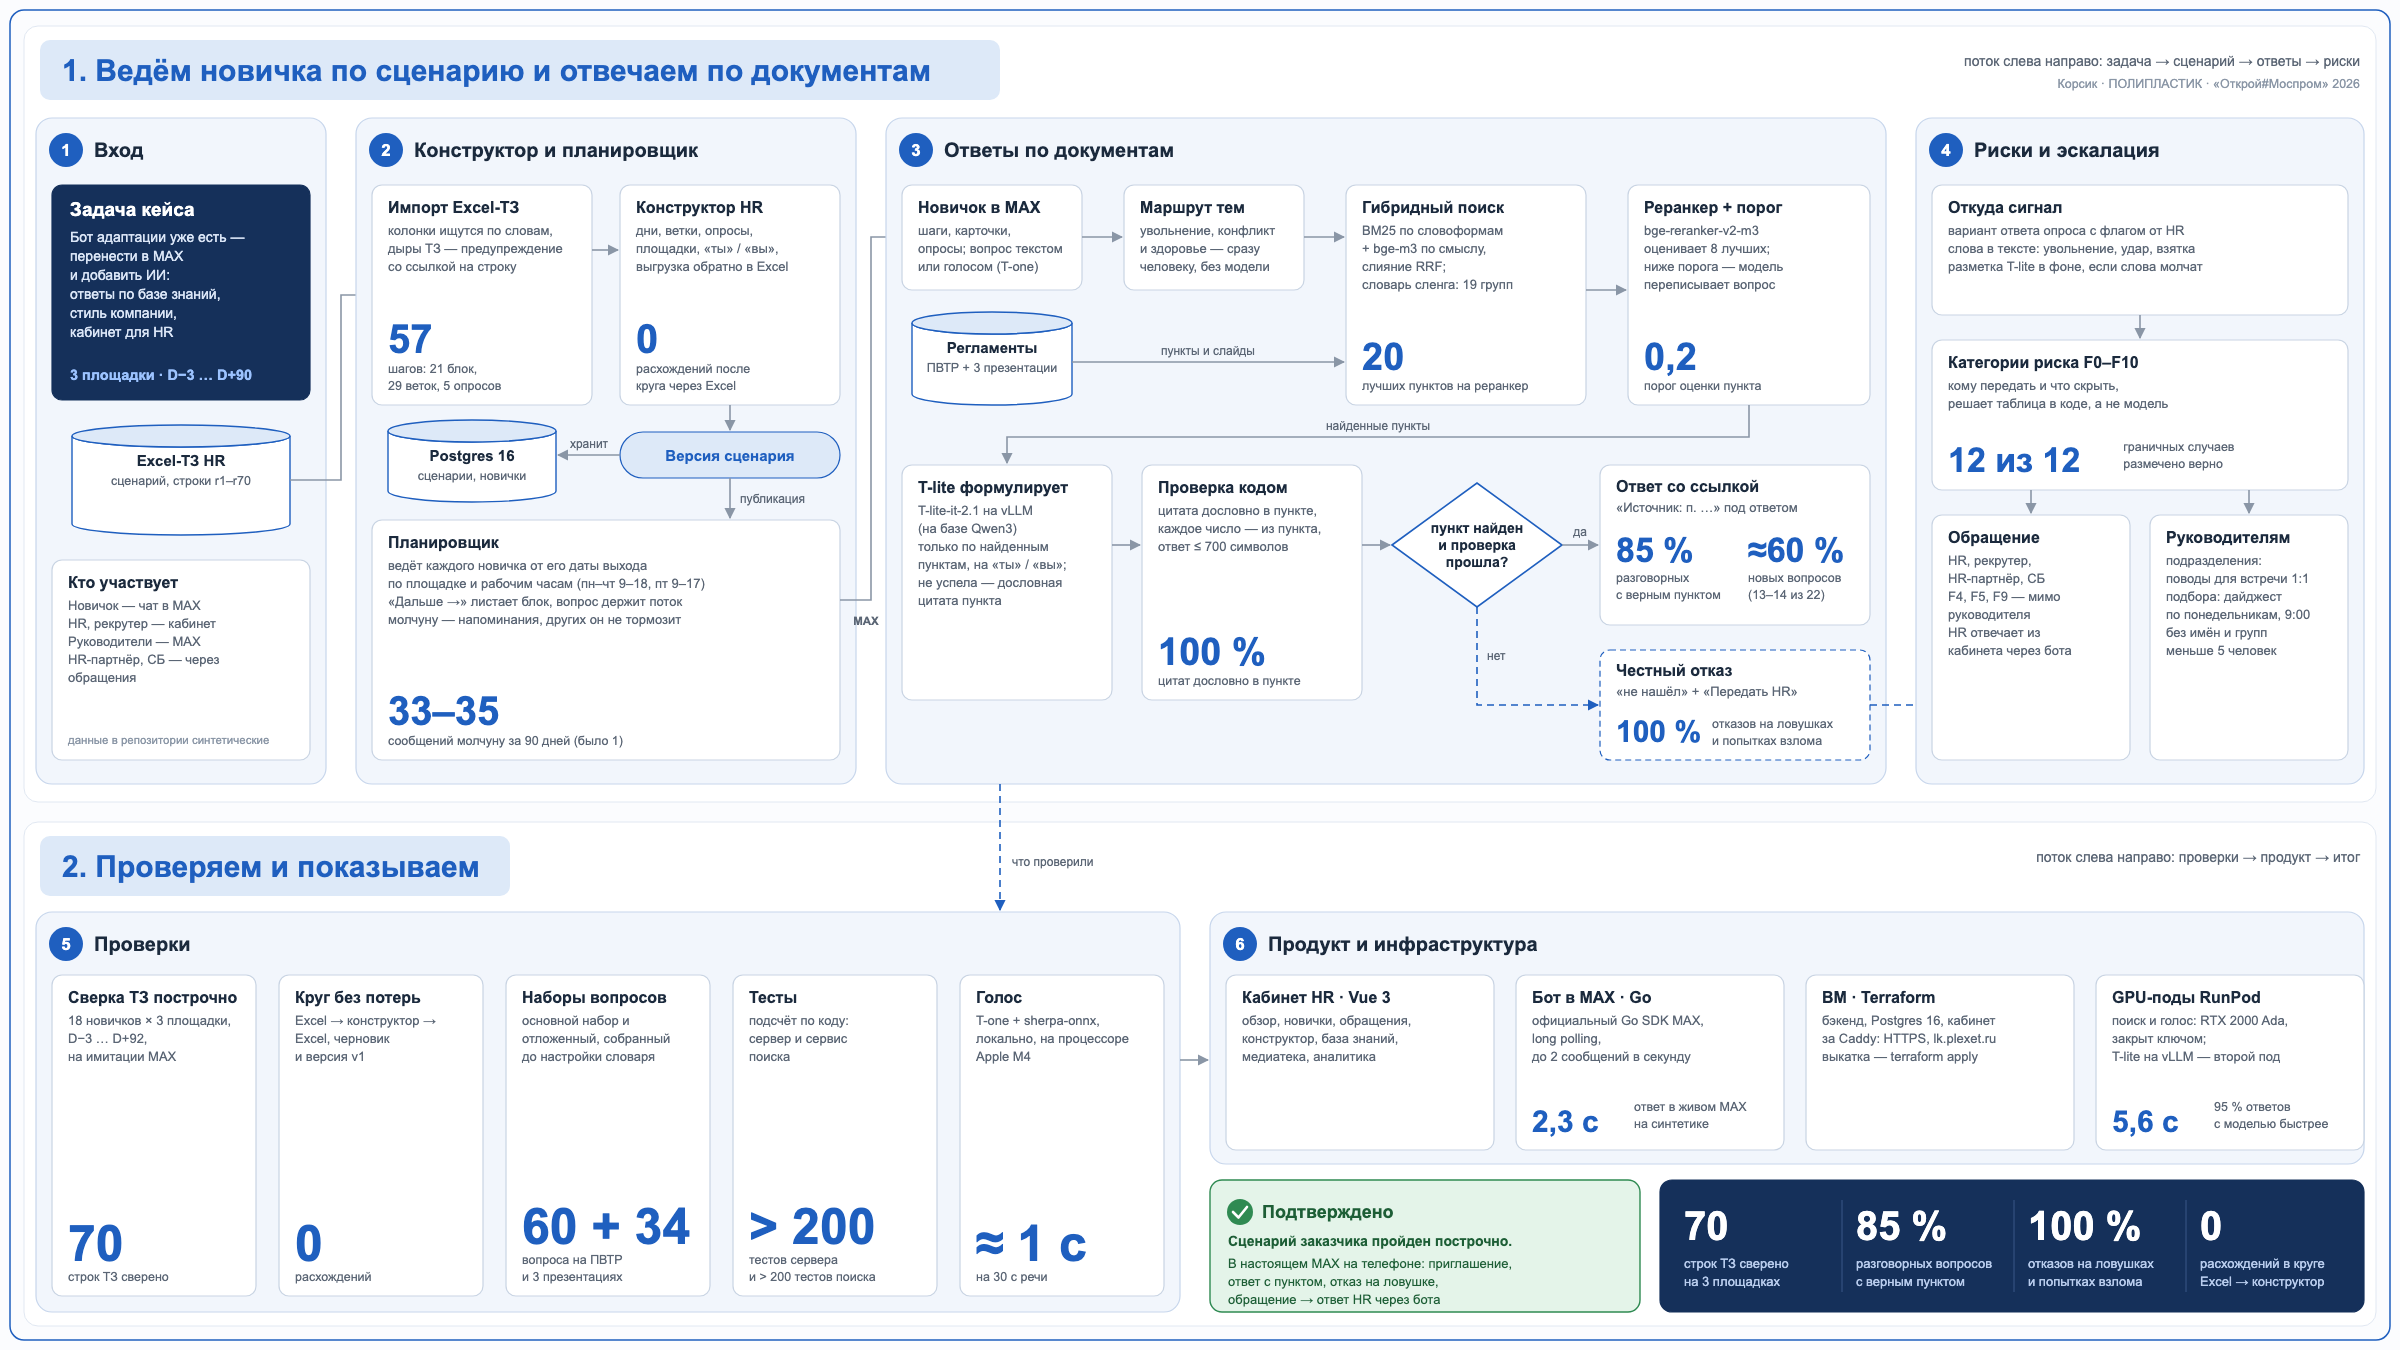
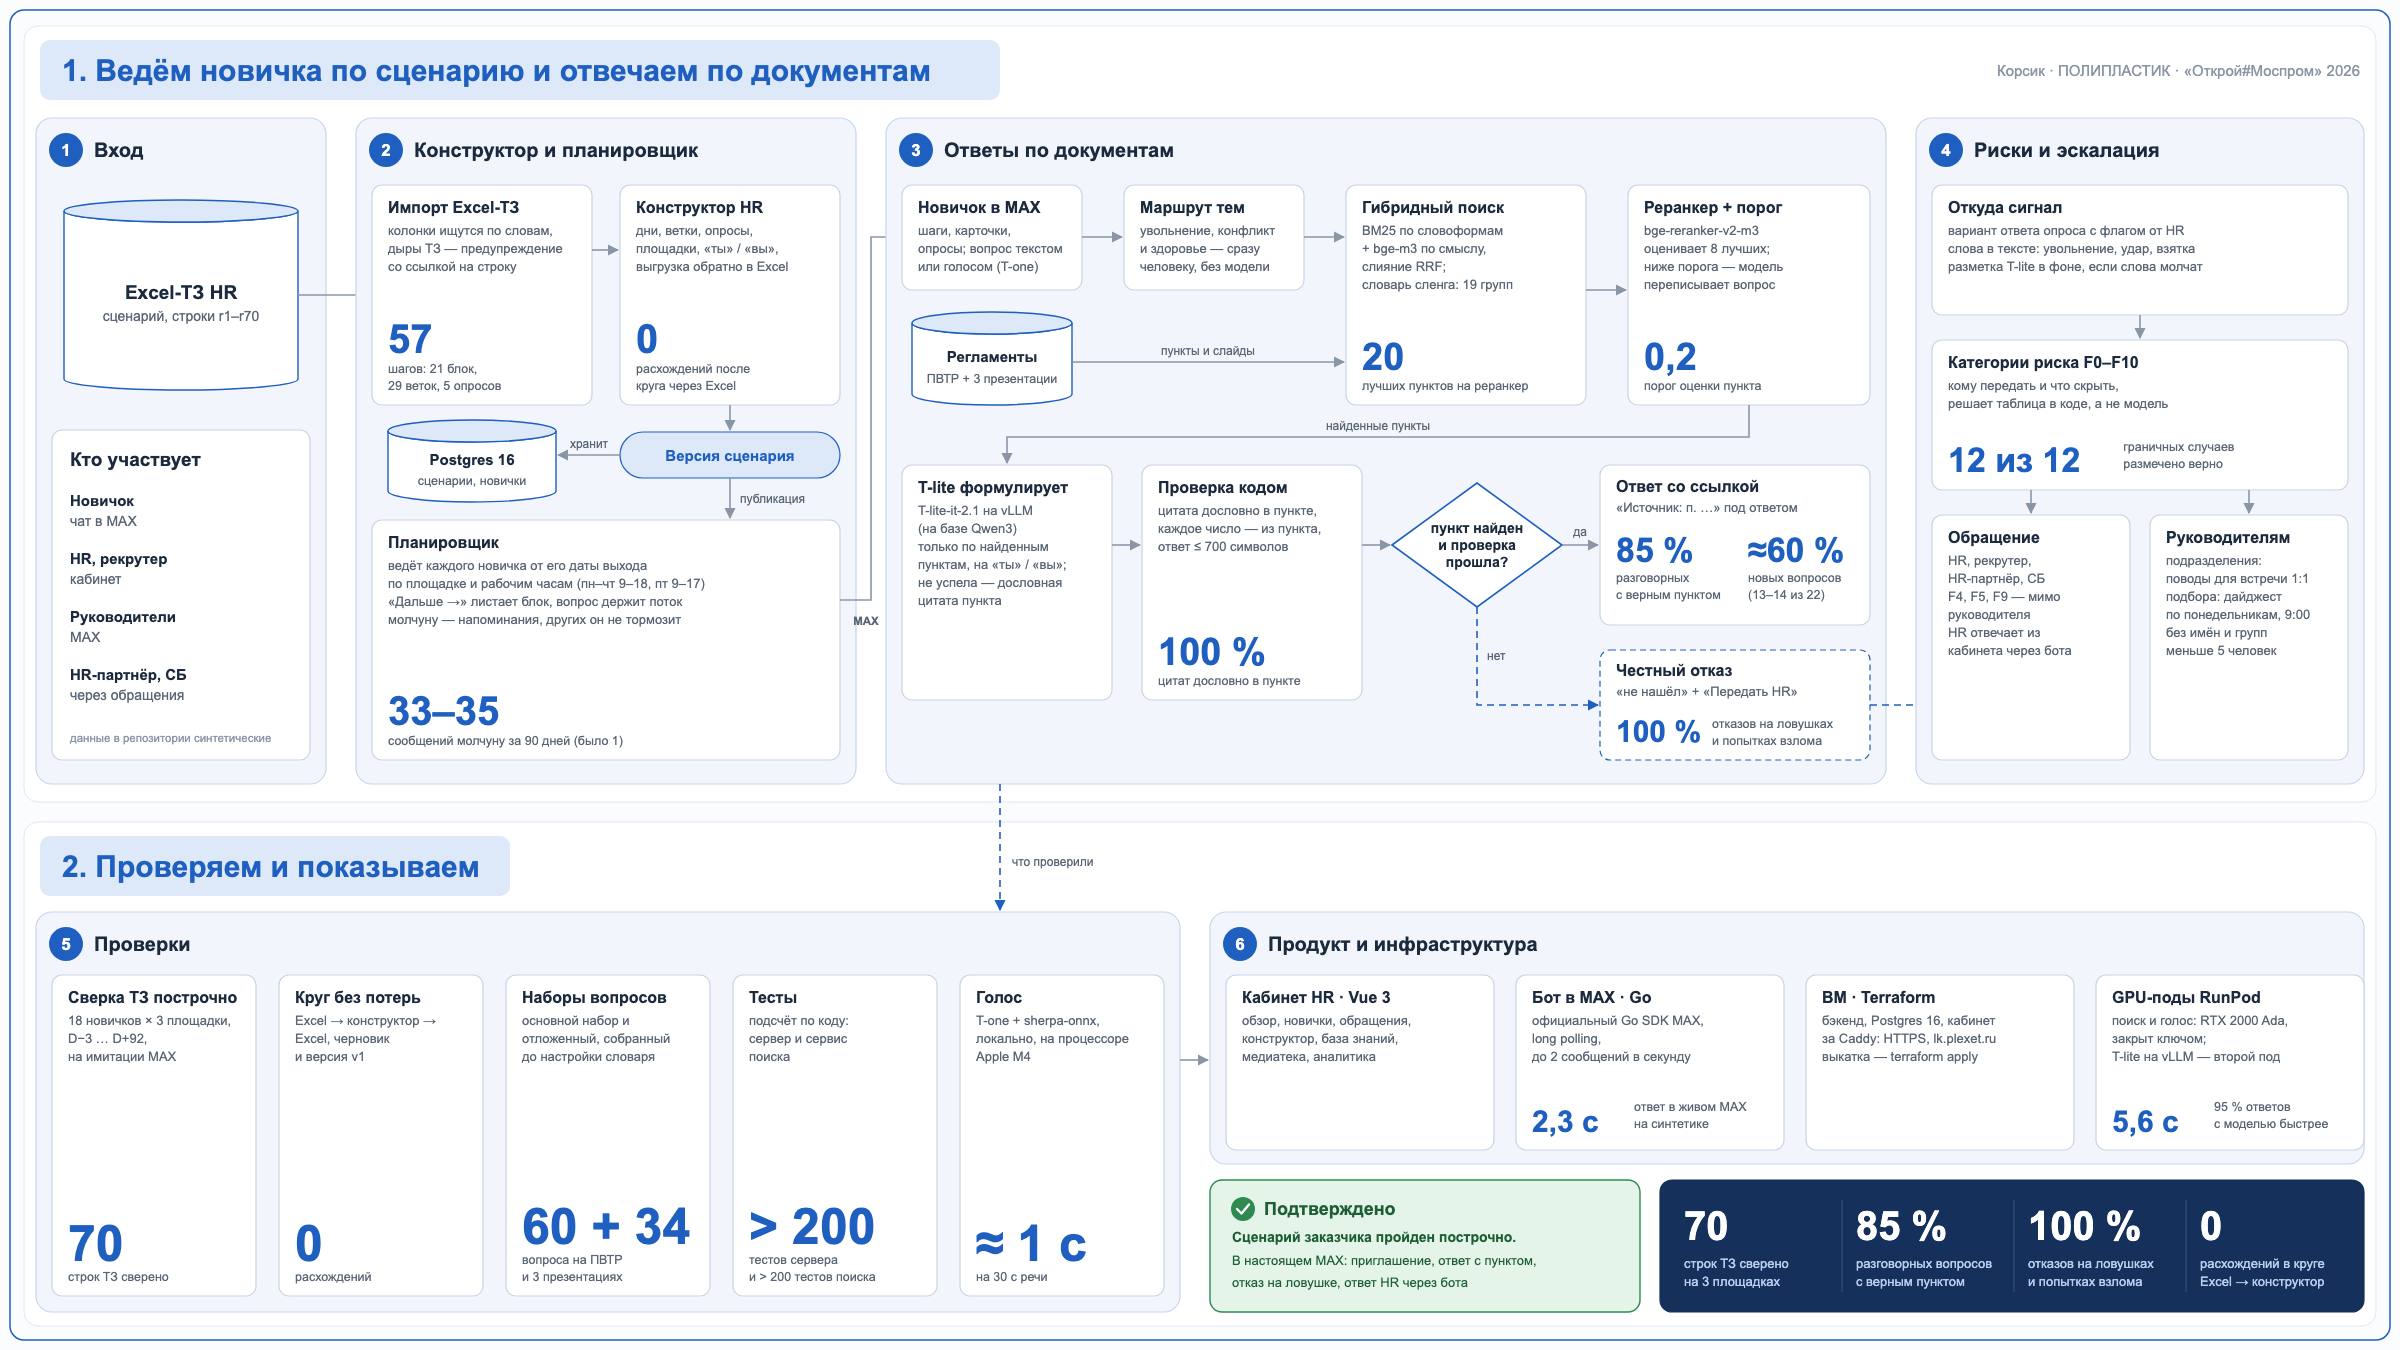
Схема решения: без «Задачи кейса» и подписей потока, ровная плашка «Подтверждено»

diff --git a/agency/pitch/solution-scheme-gen.py b/agency/pitch/solution-scheme-gen.py
@@ -88,15 +88,15 @@ def arrow(pts, dashed=False, label=None, lx=None, ly=None, anchor="middle", colo
         text(lx, ly, label, 12, color=GREY, anchor=anchor)
 
 
-def cylinder(x, y, w, h, title, sub, fill="#fff"):
+def cylinder(x, y, w, h, title, sub, fill="#fff", ts=15, ss=12.5):
     ry = 11
     add(f'<path d="M {x} {y+ry} A {w/2} {ry} 0 0 0 {x+w} {y+ry} L {x+w} {y+h-ry} '
         f'A {w/2} {ry} 0 0 1 {x} {y+h-ry} Z" fill="{fill}" stroke="{BLUE}" stroke-width="1.4"/>')
     add(f'<ellipse cx="{x+w/2}" cy="{y+ry}" rx="{w/2}" ry="{ry}" fill="{BLUE_SOFT}" '
         f'stroke="{BLUE}" stroke-width="1.4"/>')
-    cx = x + w / 2
-    text(cx, y + ry + 30, title, 15, "bold", INK, "middle", maxw=w - 16)
-    text(cx, y + ry + 49, sub, 12.5, color=GREY, anchor="middle", maxw=w - 16)
+    cx, mid = x + w / 2, y + ry + (h - ry) / 2
+    text(cx, mid - 2, title, ts, "bold", INK, "middle", maxw=w - 16)
+    text(cx, mid + ss + 6, sub, ss, color=GREY, anchor="middle", maxw=w - 16)
 
 
 # ---------------------------------------------------------------- canvas
@@ -116,29 +116,20 @@ add(f'<rect x="10" y="10" width="{W-20}" height="{H-20}" rx="14" fill="none" str
 add(f'<rect x="24" y="26" width="{W-48}" height="776" rx="14" fill="#fff" stroke="#e1e8f2" stroke-width="1"/>')
 rect(40, 40, 960, 60, fill=BLUE_SOFT, stroke="none", rx=10)
 text(62, 81, "1. Ведём новичка по сценарию и отвечаем по документам", 30, "bold", BLUE)
-text(2360, 66, "поток слева направо: задача → сценарий → ответы → риски", 14, color=GREY, anchor="end")
-text(2360, 88, "Корсик · ПОЛИПЛАСТИК · «Открой#Моспром» 2026", 12.5, color="#8a96a6", anchor="end")
+text(2360, 76, "Корсик · ПОЛИПЛАСТИК · «Открой#Моспром» 2026", 15, color="#8a96a6", anchor="end")
 
 # ---- panel 1: вход
 panel(36, 118, 290, 666, 1, "Вход")
-rect(52, 185, 258, 215, fill=NAVY, stroke=NAVY)
-text(70, 216, "Задача кейса", 19, "bold", "#fff")
-for i, ln in enumerate(["Бот адаптации уже есть —", "перенести в MAX", "и добавить ИИ:",
-                        "ответы по базе знаний,", "стиль компании,", "кабинет для HR"]):
-    text(70, 242 + i * 19, ln, 14, color="#dbe6f7", maxw=226)
-text(70, 380, "3 площадки · D−3 … D+90", 14.5, "bold", "#9cc3ff", maxw=226)
+cylinder(64, 200, 234, 190, "Excel-ТЗ HR", "сценарий, строки r1–r70", ts=19, ss=14)
+arrow([(298, 295), (370, 295)])
 
-cylinder(72, 425, 218, 110, "Excel-ТЗ HR", "сценарий, строки r1–r70")
-arrow([(290, 480), (341, 480), (341, 295), (370, 295)])
-
-card(52, 560, 258, 200, "Кто участвует", [
-    "Новичок — чат в MAX",
-    "HR, рекрутер — кабинет",
-    "Руководители — MAX",
-    "HR-партнёр, СБ — через",
-    "обращения",
-])
-text(68, 744, "данные в репозитории синтетические", 11.5, color="#8a96a6", maxw=226)
+rect(52, 430, 258, 330)
+text(70, 466, "Кто участвует", 19, "bold", INK, maxw=222)
+for i, (who, where) in enumerate([("Новичок", "чат в MAX"), ("HR, рекрутер", "кабинет"),
+                                    ("Руководители", "MAX"), ("HR-партнёр, СБ", "через обращения")]):
+    text(70, 506 + i * 58, who, 15, "bold", INK, maxw=222)
+    text(70, 526 + i * 58, where, 14, color=GREY, maxw=222)
+text(70, 742, "данные в репозитории синтетические", 11.5, color="#8a96a6", maxw=222)
 
 # ---- panel 2: конструктор и планировщик
 panel(356, 118, 500, 666, 2, "Конструктор и планировщик")
@@ -284,7 +275,6 @@ card(2150, 515, 198, 245, "Руководителям", [
 add(f'<rect x="24" y="822" width="{W-48}" height="504" rx="14" fill="#fff" stroke="#e1e8f2" stroke-width="1"/>')
 rect(40, 836, 470, 60, fill=BLUE_SOFT, stroke="none", rx=10)
 text(62, 877, "2. Проверяем и показываем", 30, "bold", BLUE)
-text(2360, 862, "поток слева направо: проверки → продукт → итог", 14, color=GREY, anchor="end")
 
 # межсекционная пунктирная стрелка
 arrow([(1000, 784), (1000, 910)], dashed=True, label="что проверили", lx=1012, ly=866,
@@ -331,14 +321,13 @@ for i, (t, ls, n, c) in enumerate(prod):
 
 # ---- итоги
 rect(1210, 1180, 430, 132, fill=GREEN_BG, stroke=GREEN, rx=12, sw=1.4)
-add(f'<circle cx="1240" cy="1212" r="13" fill="{GREEN}"/>')
-add('<path d="M 1233 1212 L 1238.5 1217.5 L 1247 1207" fill="none" stroke="#fff" stroke-width="2.6" '
+add(f'<circle cx="1243" cy="1209" r="12" fill="{GREEN}"/>')
+add('<path d="M 1237 1209 L 1241.5 1213.5 L 1249 1204.5" fill="none" stroke="#fff" stroke-width="2.4" '
     'stroke-linecap="round" stroke-linejoin="round"/>')
-text(1262, 1218, "Подтверждено", 18, "bold", GREEN_INK)
-text(1228, 1246, "Сценарий заказчика пройден построчно.", 14, "bold", GREEN_INK, maxw=396)
-text(1228, 1268, "В настоящем MAX на телефоне: приглашение,", 13, color=GREEN_INK, maxw=396)
-text(1228, 1286, "ответ с пунктом, отказ на ловушке,", 13, color=GREEN_INK, maxw=396)
-text(1228, 1304, "обращение → ответ HR через бота", 13, color=GREEN_INK, maxw=396)
+text(1264, 1215, "Подтверждено", 18, "bold", GREEN_INK)
+text(1232, 1242, "Сценарий заказчика пройден построчно.", 14, "bold", GREEN_INK, maxw=386)
+text(1232, 1265, "В настоящем MAX: приглашение, ответ с пунктом,", 13, color=GREEN_INK, maxw=386)
+text(1232, 1287, "отказ на ловушке, ответ HR через бота", 13, color=GREEN_INK, maxw=386)
 
 rect(1660, 1180, 704, 132, fill=NAVY, stroke=NAVY, rx=12)
 totals = [("70", ["строк ТЗ сверено", "на 3 площадках"]),
